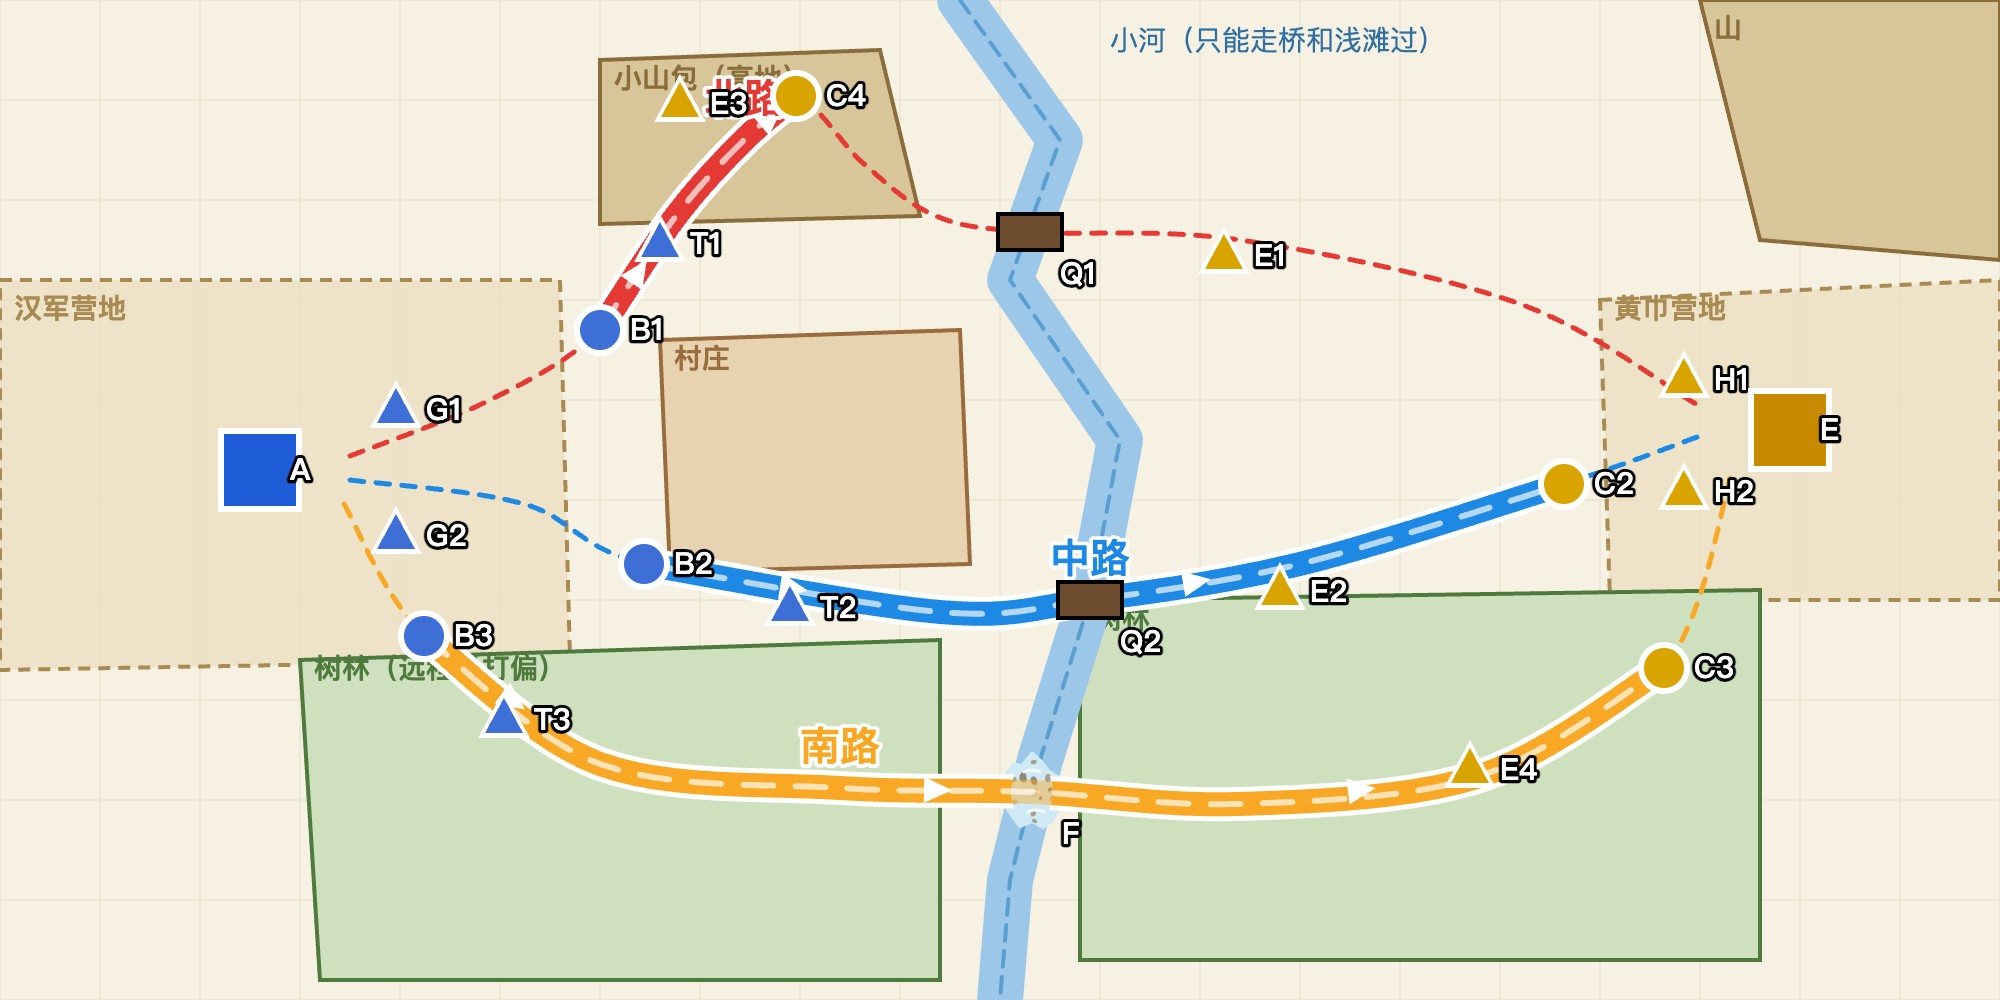
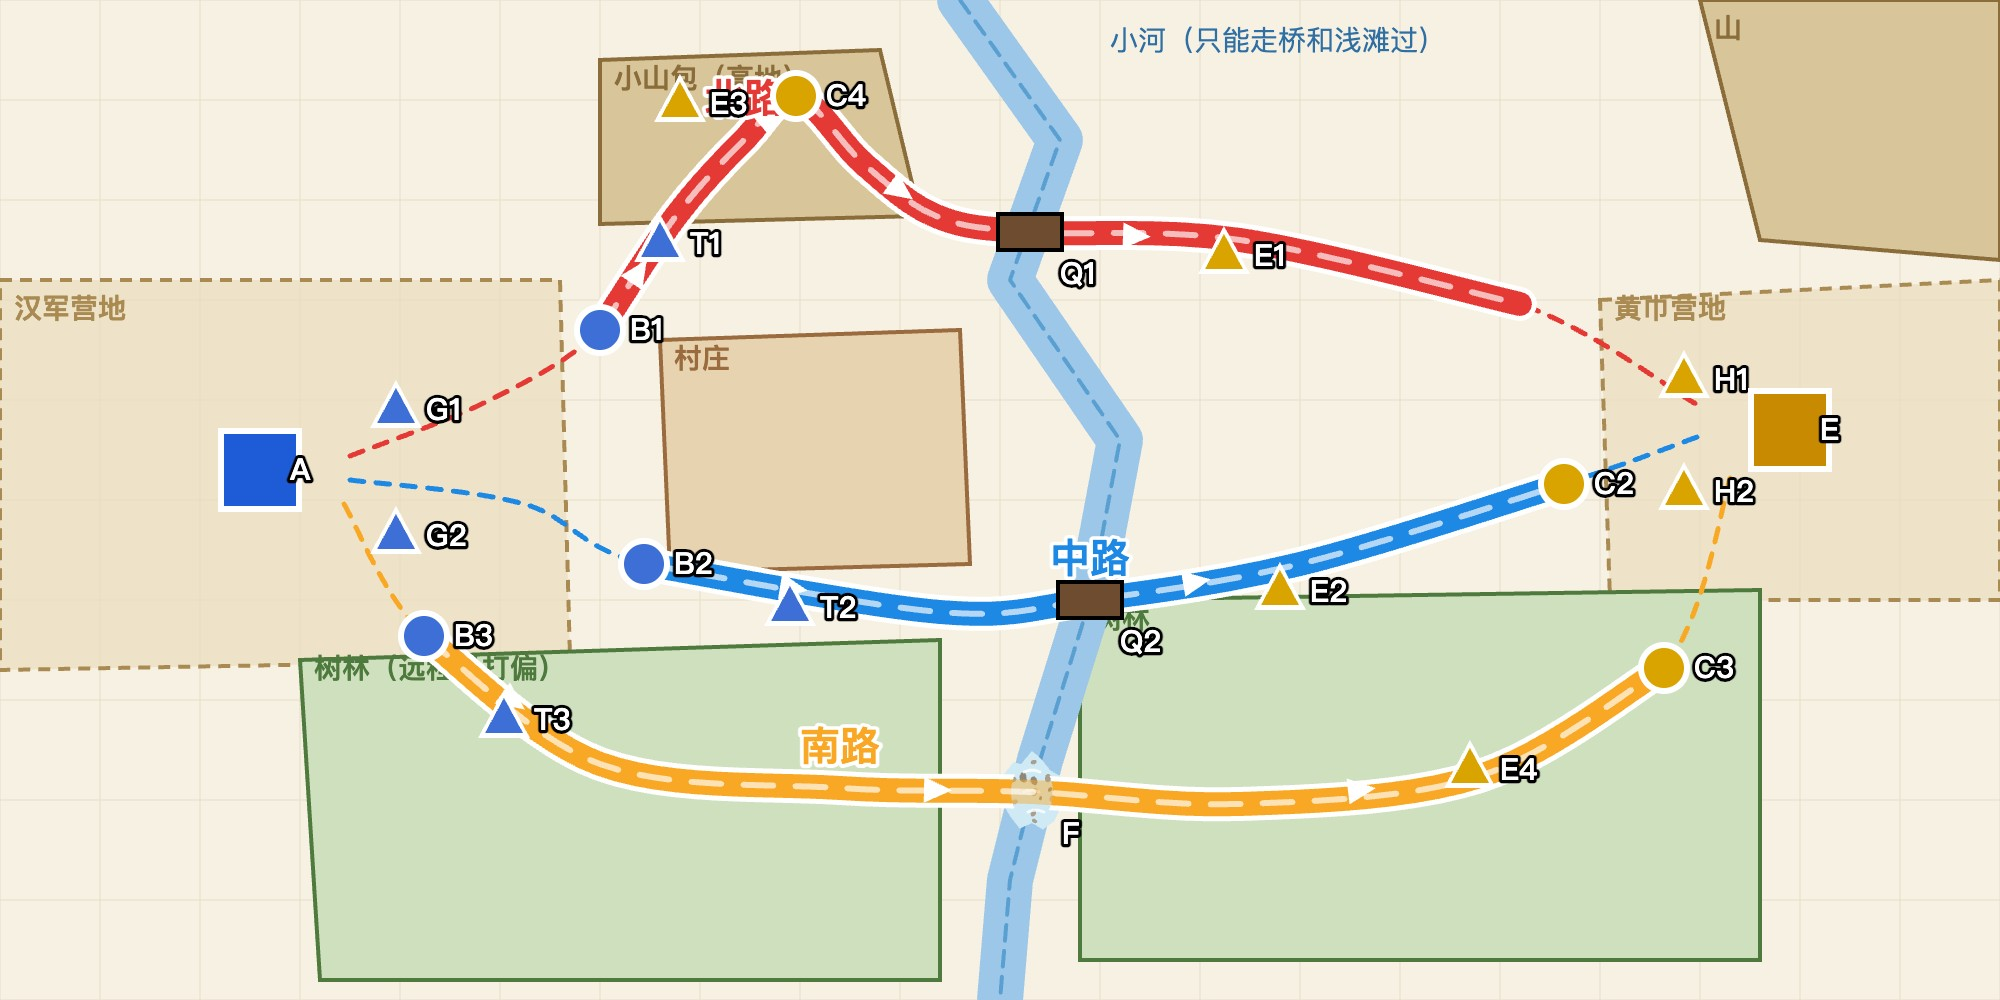
涿郡规划：北路的路恢复到翻山、过北桥通向黄巾大营，只删桥头敌营 C1

Changed region(s): [[0.527, 0.217, 0.775, 0.341], [0.372, 0.093, 0.496, 0.248]]

diff --git a/docs/涿郡出图参考.html b/docs/涿郡出图参考.html
@@ -7,7 +7,7 @@ h2{margin:6px 0 8px}.k{display:inline-block;width:26px;height:26px;border-radius
 // 坐标用 1000×500（和地形图缩略图一致），画到 2000×1000
 const K=2;
 const ROUTES={
- 北路:{c:'#e53935',road:[2,5],p:[[175,228],[245,200],[300,165],[338,108],[372,70],[398,48],[432,82],[468,108],[515,116],[620,120],[760,152],[848,202]],note:'路只到山顶黄巾兵营 C4（北路唯一的敌营）；拿下后翻过山、过北桥打大营（这段不画路）；上坡移速 -25%'},
+ 北路:{c:'#e53935',road:[2,10],p:[[175,228],[245,200],[300,165],[338,108],[372,70],[398,48],[432,82],[468,108],[515,116],[620,120],[760,152],[848,202]],note:'上坡到山顶黄巾兵营 C4（北路唯一的敌营），再下坡过北桥，路一直通到黄巾大营门前；上坡移速 -25%'},
  中路:{c:'#1e88e5',road:[2,6],p:[[175,240],[262,252],[322,282],[470,306],[545,300],[650,282],[782,242],[850,218]],note:'最短；沿村庄南边；中桥窄，会挤'},
  南路:{c:'#f9a825',road:[1,7],p:[[172,252],[212,318],[300,382],[420,394],[516,396],[620,402],[740,388],[832,334],[866,236]],note:'穿两片树林，浅滩涉水；最慢；树林里远程易打偏'},
 };

diff --git a/docs/涿郡路线规划.html b/docs/涿郡路线规划.html
@@ -7,7 +7,7 @@ h2{margin:6px 0 8px}.k{display:inline-block;width:26px;height:26px;border-radius
 // 坐标用 1000×500（和地形图缩略图一致），画到 2000×1000
 const K=2;
 const ROUTES={
- 北路:{c:'#e53935',road:[2,5],p:[[175,228],[245,200],[300,165],[338,108],[372,70],[398,48],[432,82],[468,108],[515,116],[620,120],[760,152],[848,202]],note:'路只到山顶黄巾兵营 C4（北路唯一的敌营）；拿下后翻过山、过北桥打大营（这段不画路）；上坡移速 -25%'},
+ 北路:{c:'#e53935',road:[2,10],p:[[175,228],[245,200],[300,165],[338,108],[372,70],[398,48],[432,82],[468,108],[515,116],[620,120],[760,152],[848,202]],note:'上坡到山顶黄巾兵营 C4（北路唯一的敌营），再下坡过北桥，路一直通到黄巾大营门前；上坡移速 -25%'},
  中路:{c:'#1e88e5',road:[2,6],p:[[175,240],[262,252],[322,282],[470,306],[545,300],[650,282],[782,242],[850,218]],note:'最短；沿村庄南边；中桥窄，会挤'},
  南路:{c:'#f9a825',road:[1,7],p:[[172,252],[212,318],[300,382],[420,394],[516,396],[620,402],[740,388],[832,334],[866,236]],note:'穿两片树林，浅滩涉水；最慢；树林里远程易打偏'},
 };

diff --git a/tools/art/check_plan.py b/tools/art/check_plan.py
@@ -1,6 +1,6 @@
 """出图前核对路线规划（手绘规划页 html）：不过就不许出图。
 检查：① 桥、浅滩的中心必须在河道中心线上；② 每条进攻路线（全程，不只画出来的路）正好过河一次，过河点就是一座桥或浅滩；
-③ 路的两头必须是兵营（敌我各一）。坐标按 1000×500。
+③ 路从我方兵营出发，并且经过一座敌方兵营。坐标按 1000×500。
 用法：python3 tools/art/check_plan.py docs/涿郡路线规划.html
 """
 import json, math, re, sys
@@ -55,9 +55,13 @@ for name, P in routes.items():
     d = math.dist(c, (best[2], best[3]))
     print(f"  过河点 ({c[0]:.0f},{c[1]:.0f}) → {best[0]} 距离 {d:.1f}")
     if d > TOL_CROSS: errs.append(f"{name} 过河点 ({c[0]:.0f},{c[1]:.0f}) 不在桥/浅滩上，最近的 {best[0]} 差 {d:.1f}")
-    for end, lab in ((P[0], "起点"), (P[-1], "终点")):
-        cb = min(camps, key=lambda p: math.dist(end, (p[2], p[3])))
-        dd = math.dist(end, (cb[2], cb[3]))
-        if dd > TOL_END: errs.append(f"{name} {lab} {end} 不在兵营上，最近的 {cb[0]} 差 {dd:.1f}")
+    # 路从我方兵营出发，并且要经过一座敌方兵营
+    mine = min((p for p in camps if p[4] == "camp"), key=lambda p: math.dist(P[0], (p[2], p[3])))
+    dd = math.dist(P[0], (mine[2], mine[3]))
+    if dd > TOL_END: errs.append(f"{name} 起点 {P[0]} 不在我方兵营上，最近的 {mine[0]} 差 {dd:.1f}")
+    R = cr(P); foe = min((p for p in camps if p[4] == "ecamp"), key=lambda p: min(math.dist(q, (p[2], p[3])) for q in R))
+    dd = min(math.dist(q, (foe[2], foe[3])) for q in R)
+    print(f"  路经过敌营 {foe[0]}，距离 {dd:.1f}")
+    if dd > TOL_END: errs.append(f"{name} 的路没经过敌方兵营，最近的 {foe[0]} 差 {dd:.1f}")
 print("\n".join(["✗ " + e for e in errs]) if errs else "✓ 规划检查通过")
 sys.exit(1 if errs else 0)
